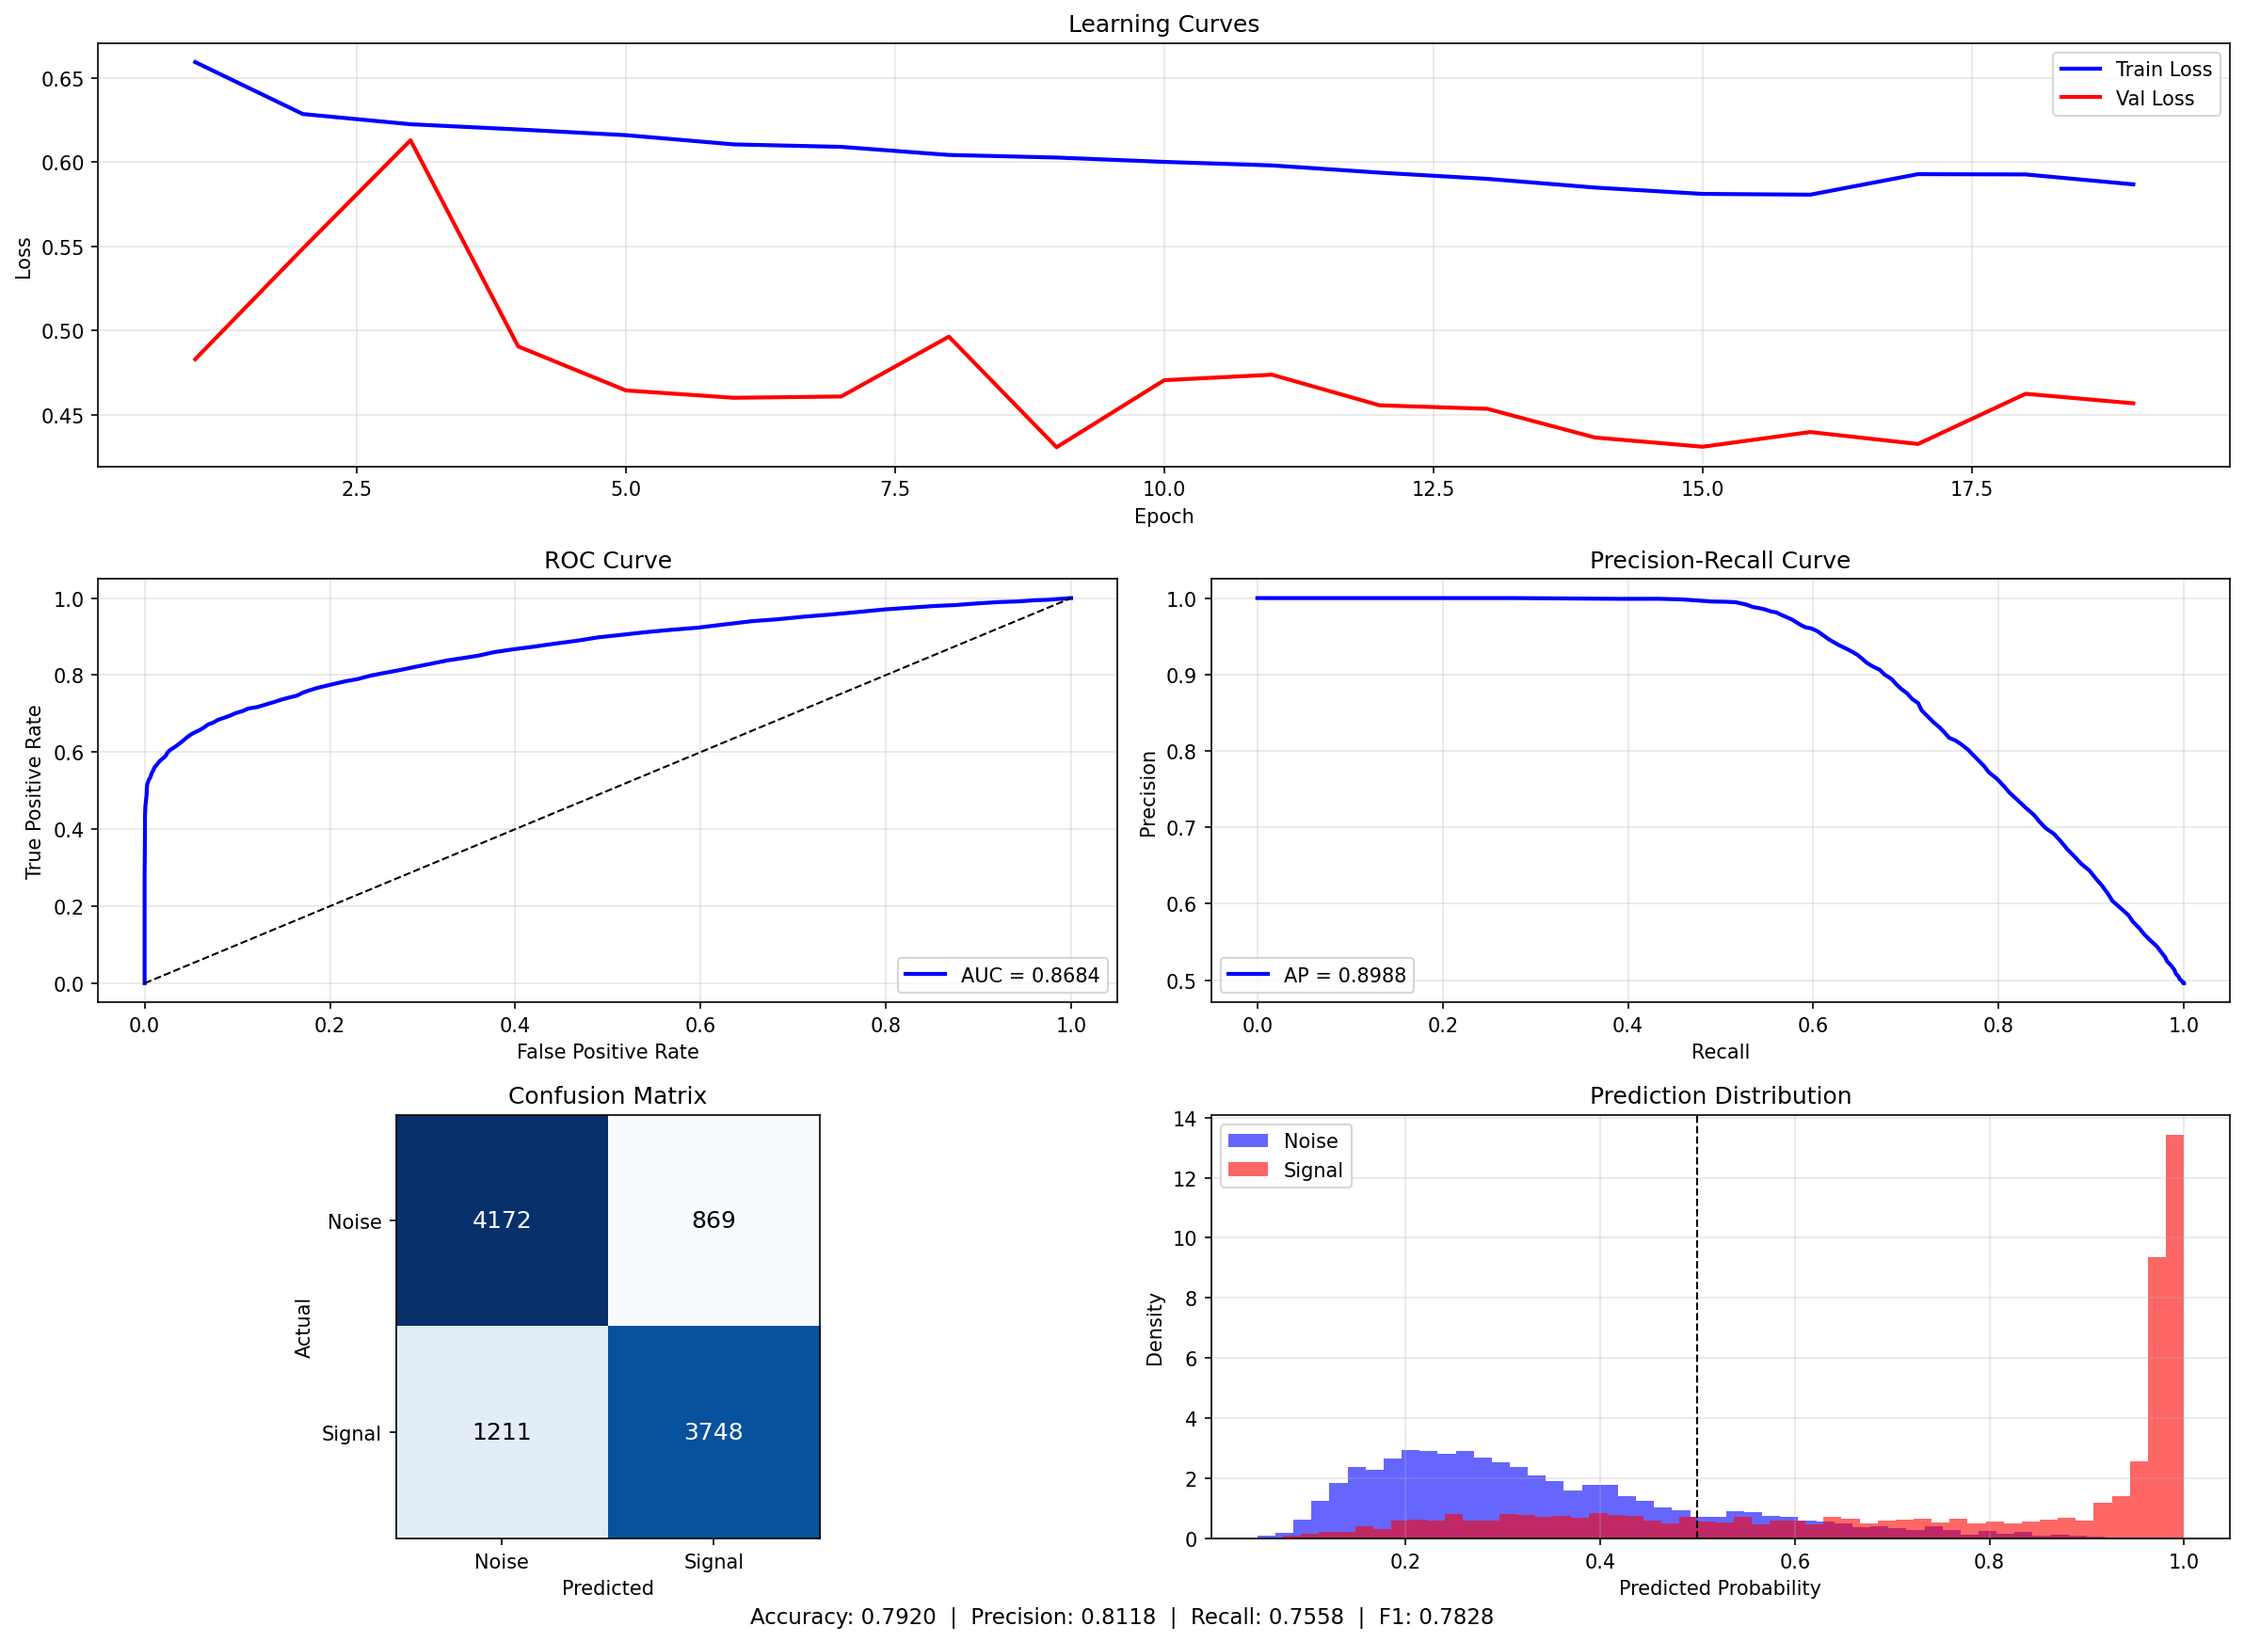
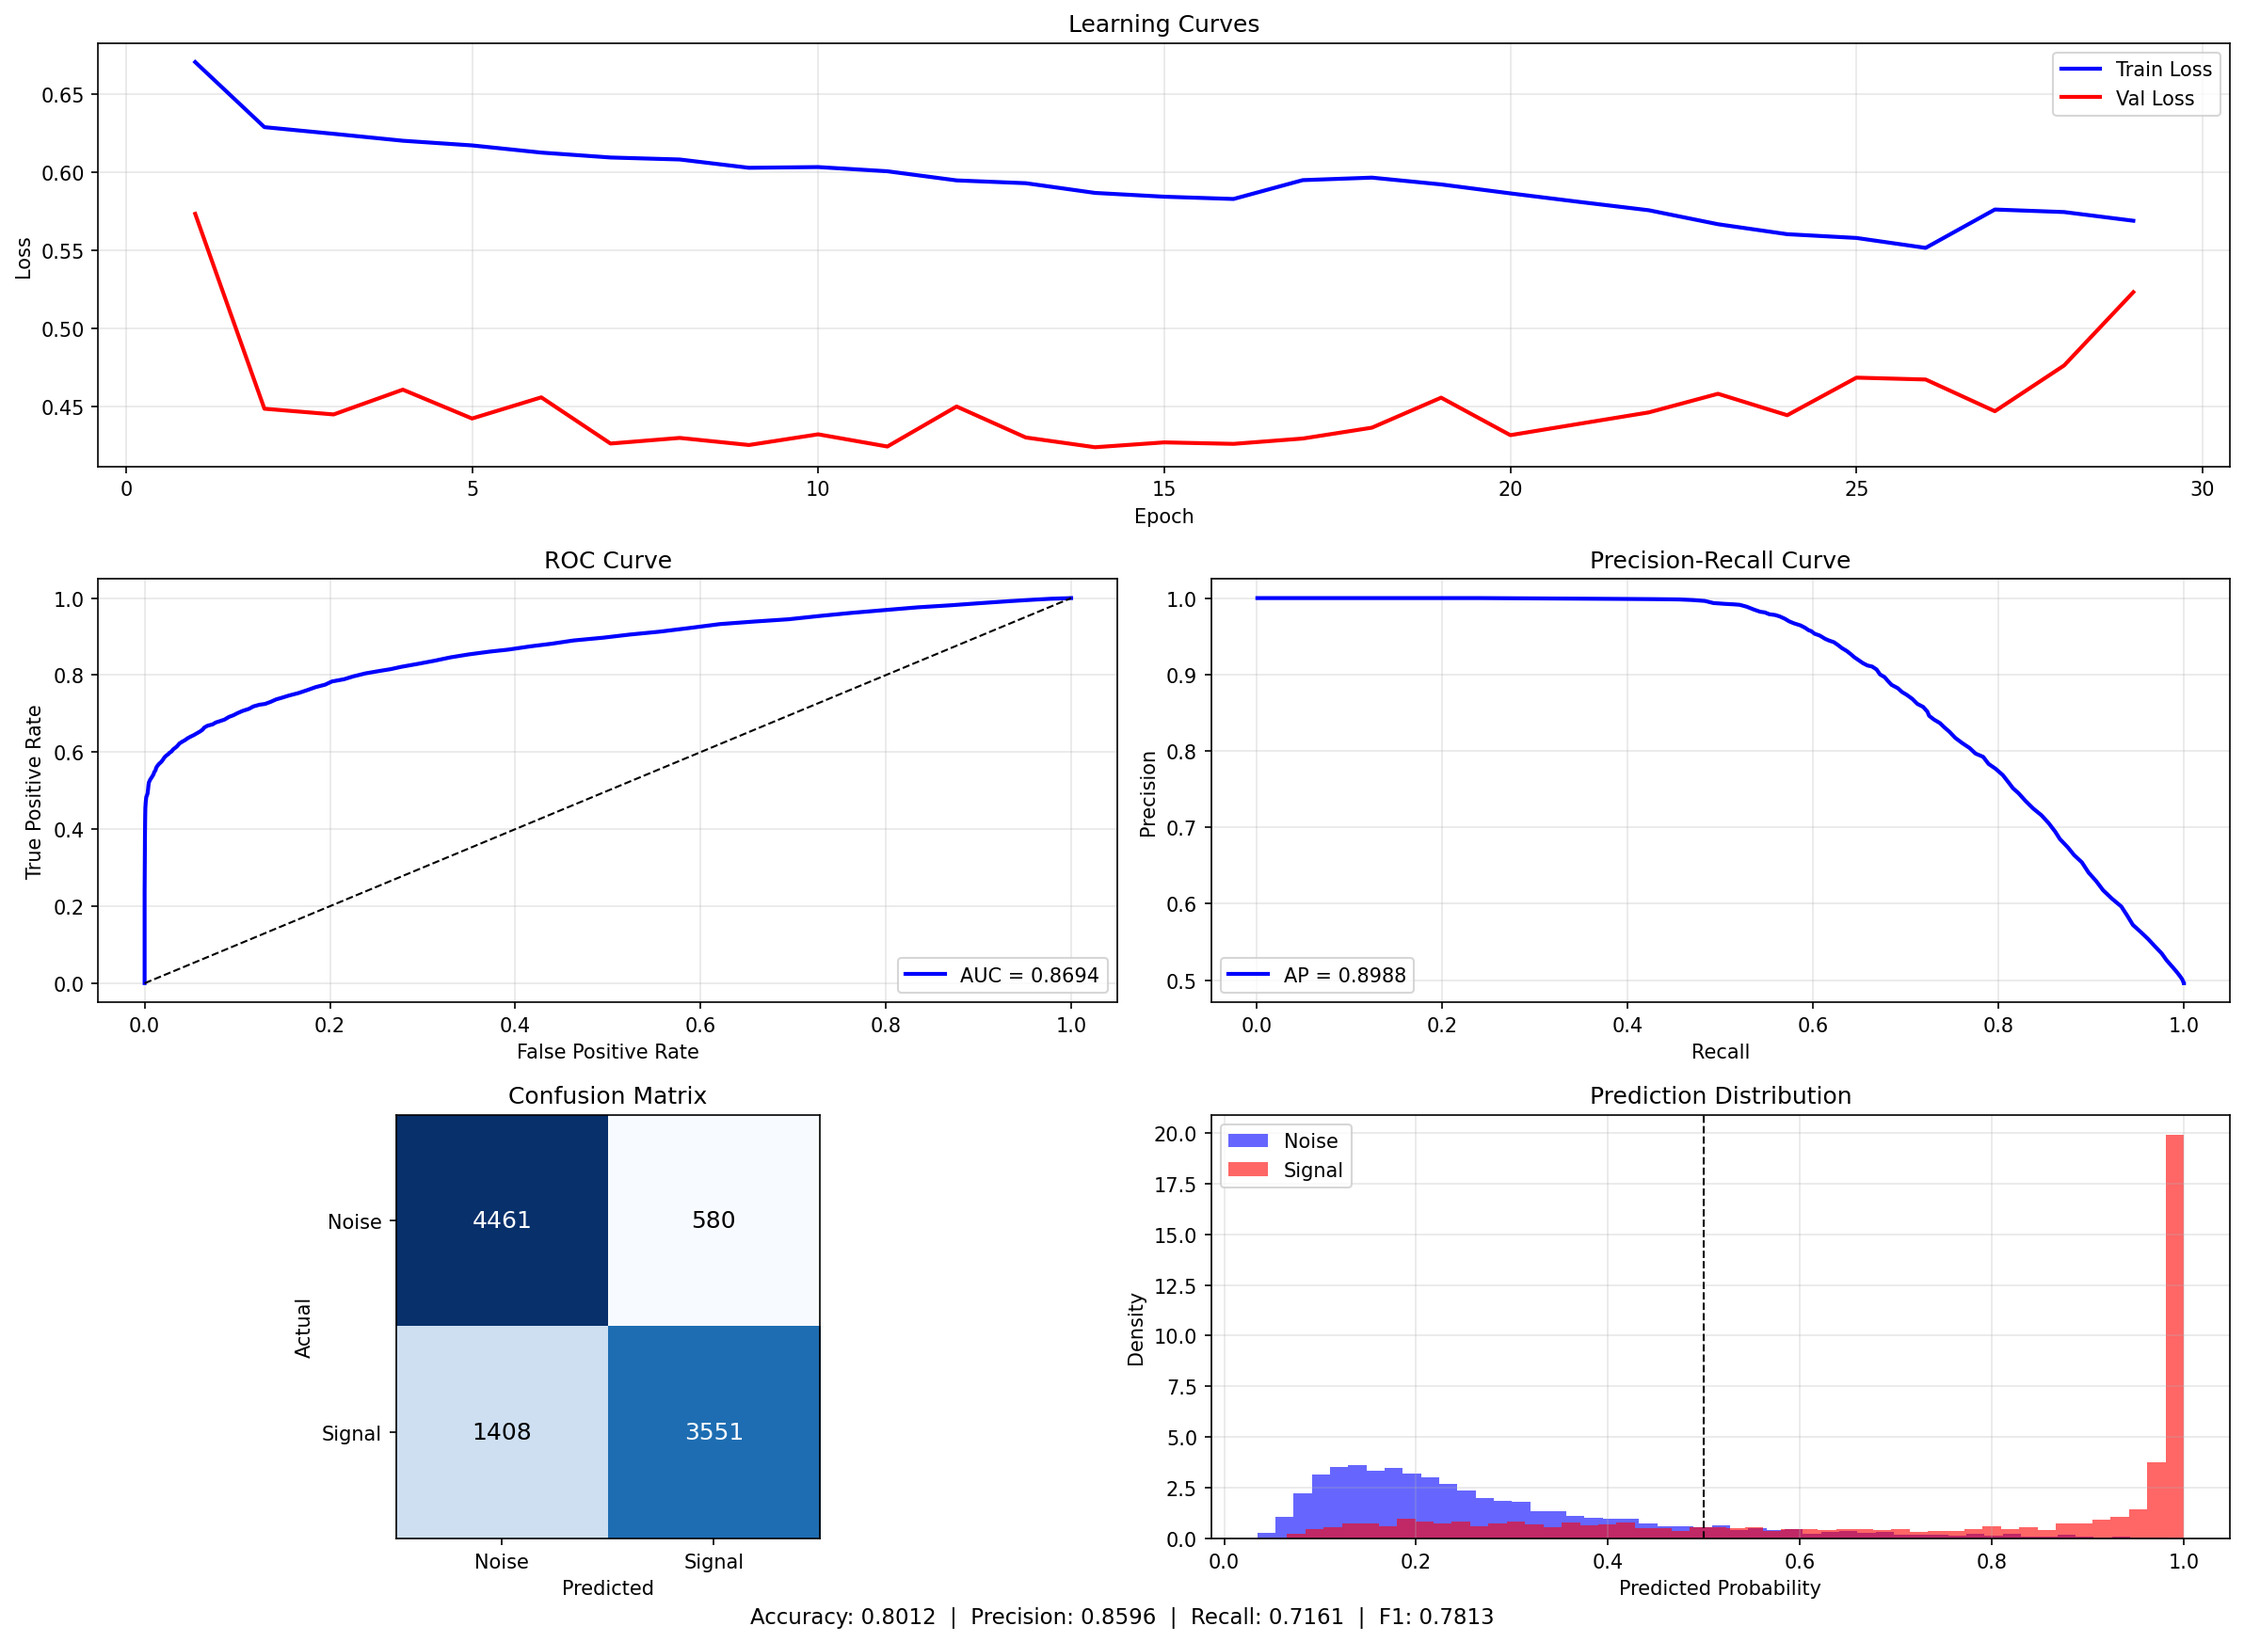
Add   stochastic depth, batched backbone, fix torch.amp API

diff --git a/developer-notes.md b/developer-notes.md
@@ -137,7 +137,7 @@ The $S^2$ features concatenate with the CNN backbone output before the classifie
 
 Each step is gated on the previous one showing improvement.
 
-**Step 1: Deep residual backbone (implemented).** Replaced the 4 plain conv blocks with ~10 residual blocks. Added separate Virgo extractor, GeM pooling, stochastic depth. AUC: 0.866 (up from 0.858 plateau). Recall improved substantially (0.64 -> 0.75). Spectral dropout and channel shuffle not yet added.
+**Step 1: Deep residual backbone (implemented).** Replaced the 4 plain conv blocks with ~10 residual blocks. Added separate Virgo extractor, GeM pooling. AUC: 0.866 (up from 0.858 plateau). Recall improved substantially (0.64 -> 0.75). Stochastic depth (drop_path_rate=0.1) was neutral (0.865). Spectral dropout and channel shuffle not yet added.
 
 **Step 1b: Two-stage branch fusion.** After the backbone shows improvement, add a second fusion stage: 4 parallel paths (H1, L1, V1 individually + all-3-concatenated), then all 4 concatenated through more residual blocks.
 

diff --git a/README.md b/README.md
@@ -42,11 +42,11 @@ Deep residual backbone with ~10 residual blocks (20 conv layers), GeM pooling, a
 
 | Accuracy | AUC | Precision | Recall | F1 |
 |----------|-----|-----------|--------|----|
-| 0.792 | 0.868 | 0.812 | 0.756 | 0.783 |
+| 0.797 | 0.865 | 0.860 | 0.708 | 0.781 |
 
 <p align="center"><img src="assets/dashboard.png" width="700"></p>
 
-The deep residual backbone (Phase 3, Step 1) brought a meaningful improvement over the Phase 1 plateau at 0.858 AUC. Recall improved substantially (0.64 -> 0.75) with precision coming down from its previously over-conservative 0.91 to a more balanced 0.82.
+The deep residual backbone (Phase 3, Step 1) brought a meaningful improvement over the Phase 1 plateau at 0.858 AUC. Adding stochastic depth (drop_path_rate=0.1) was neutral (0.865 vs 0.866 baseline). Overfitting is visible after epoch ~15; next step is augmentation diversity (spectral dropout, channel shuffle).
 
 ## Installation
 
